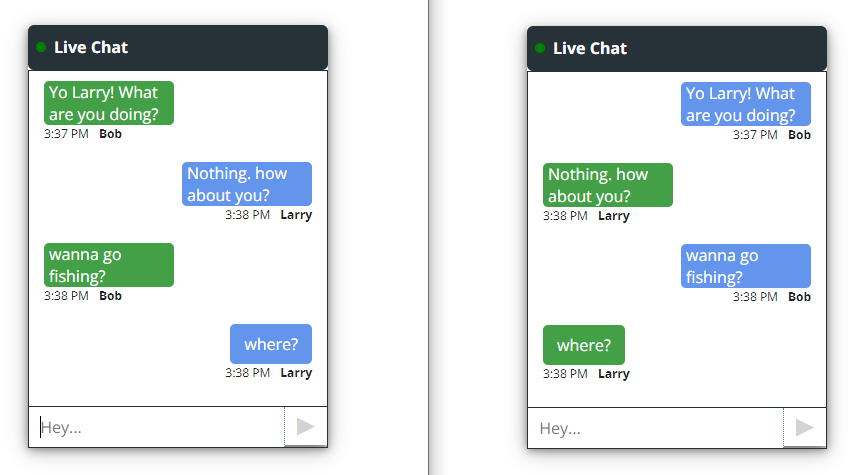
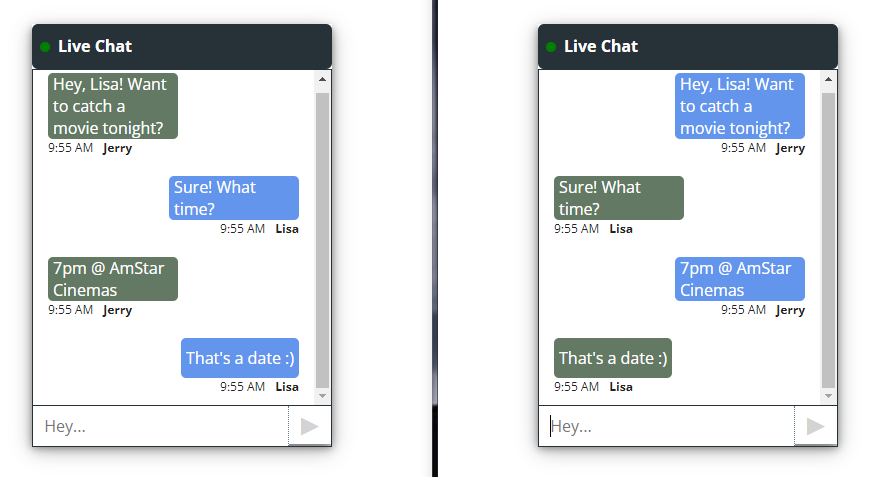
fixing live chat colors and change pic

diff --git a/client/src/App.css b/client/src/App.css
@@ -117,7 +117,7 @@ body {
   height: auto;
   min-height: 40px;
   max-width: 120px;
-  background-color: #43a047;
+  background-color: #637964;
   border-radius: 5px;
   color: white;
   display: flex;
